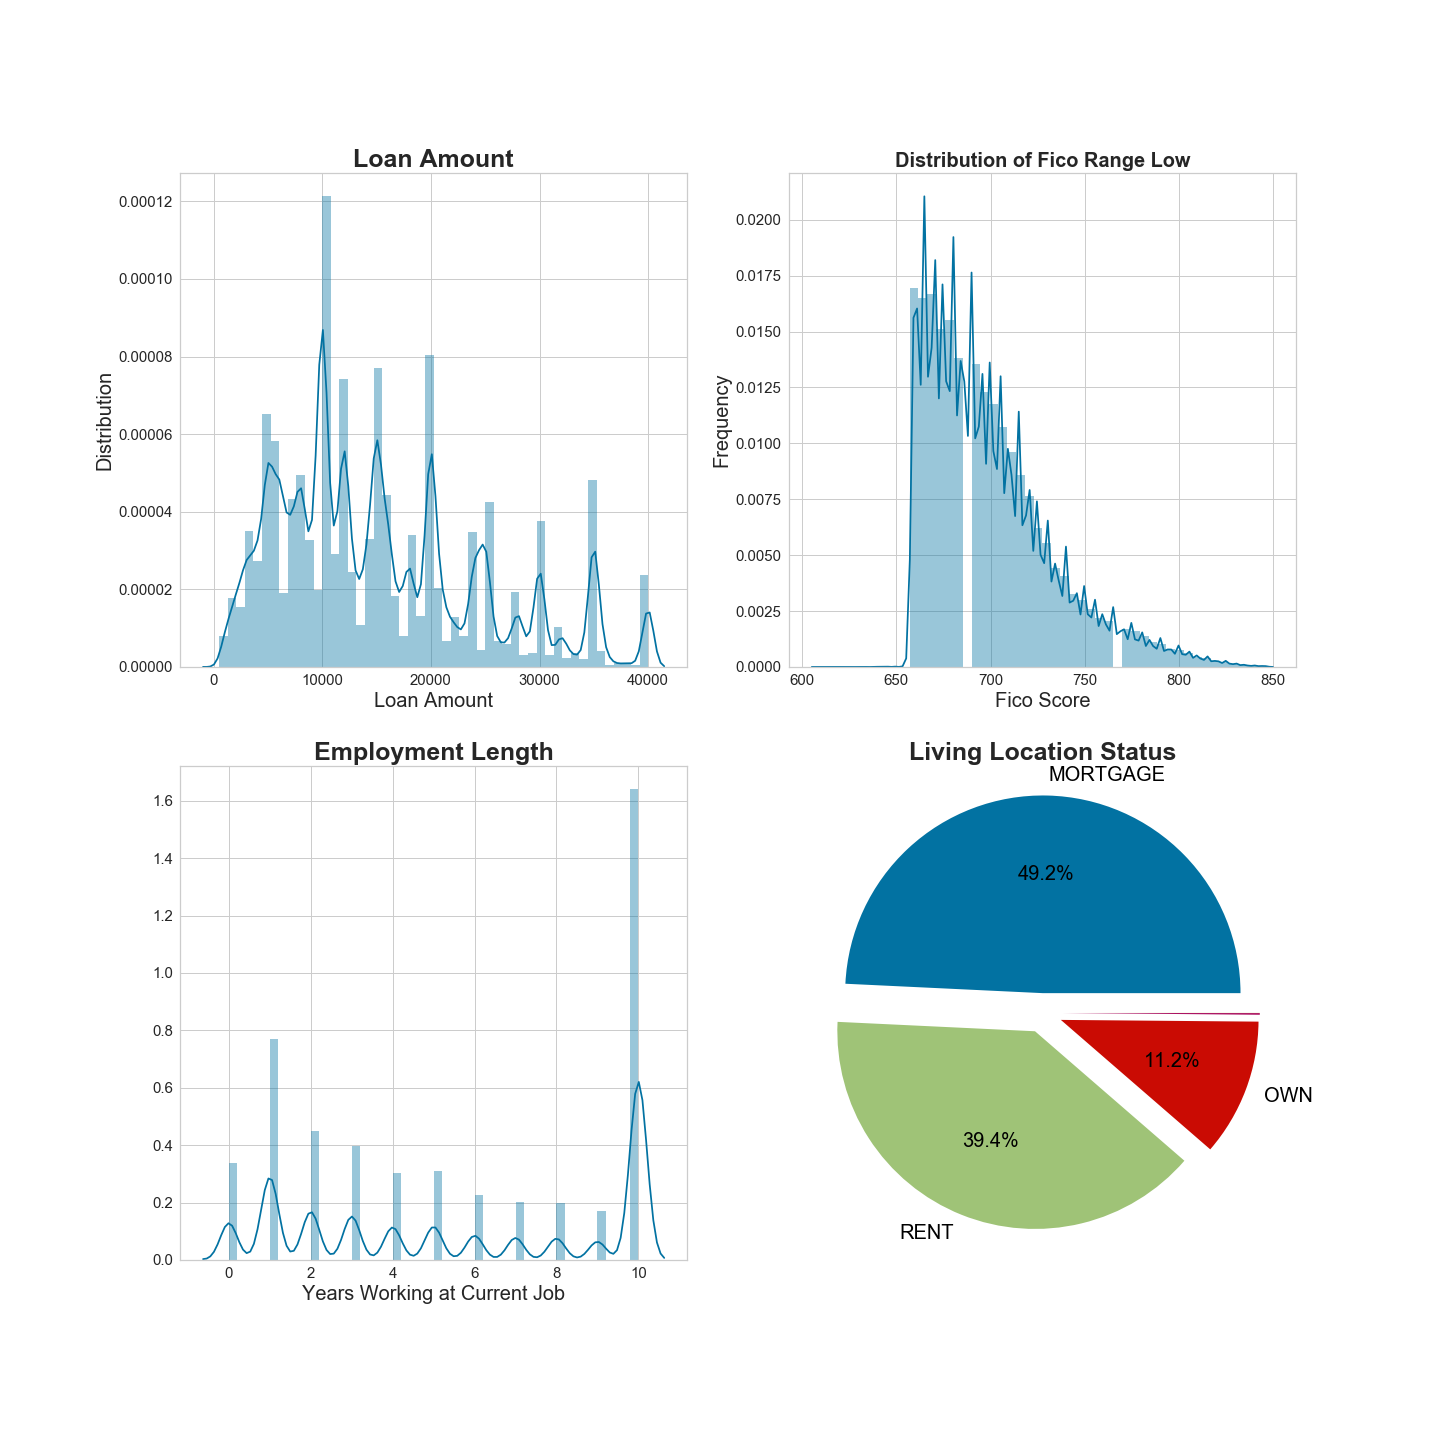
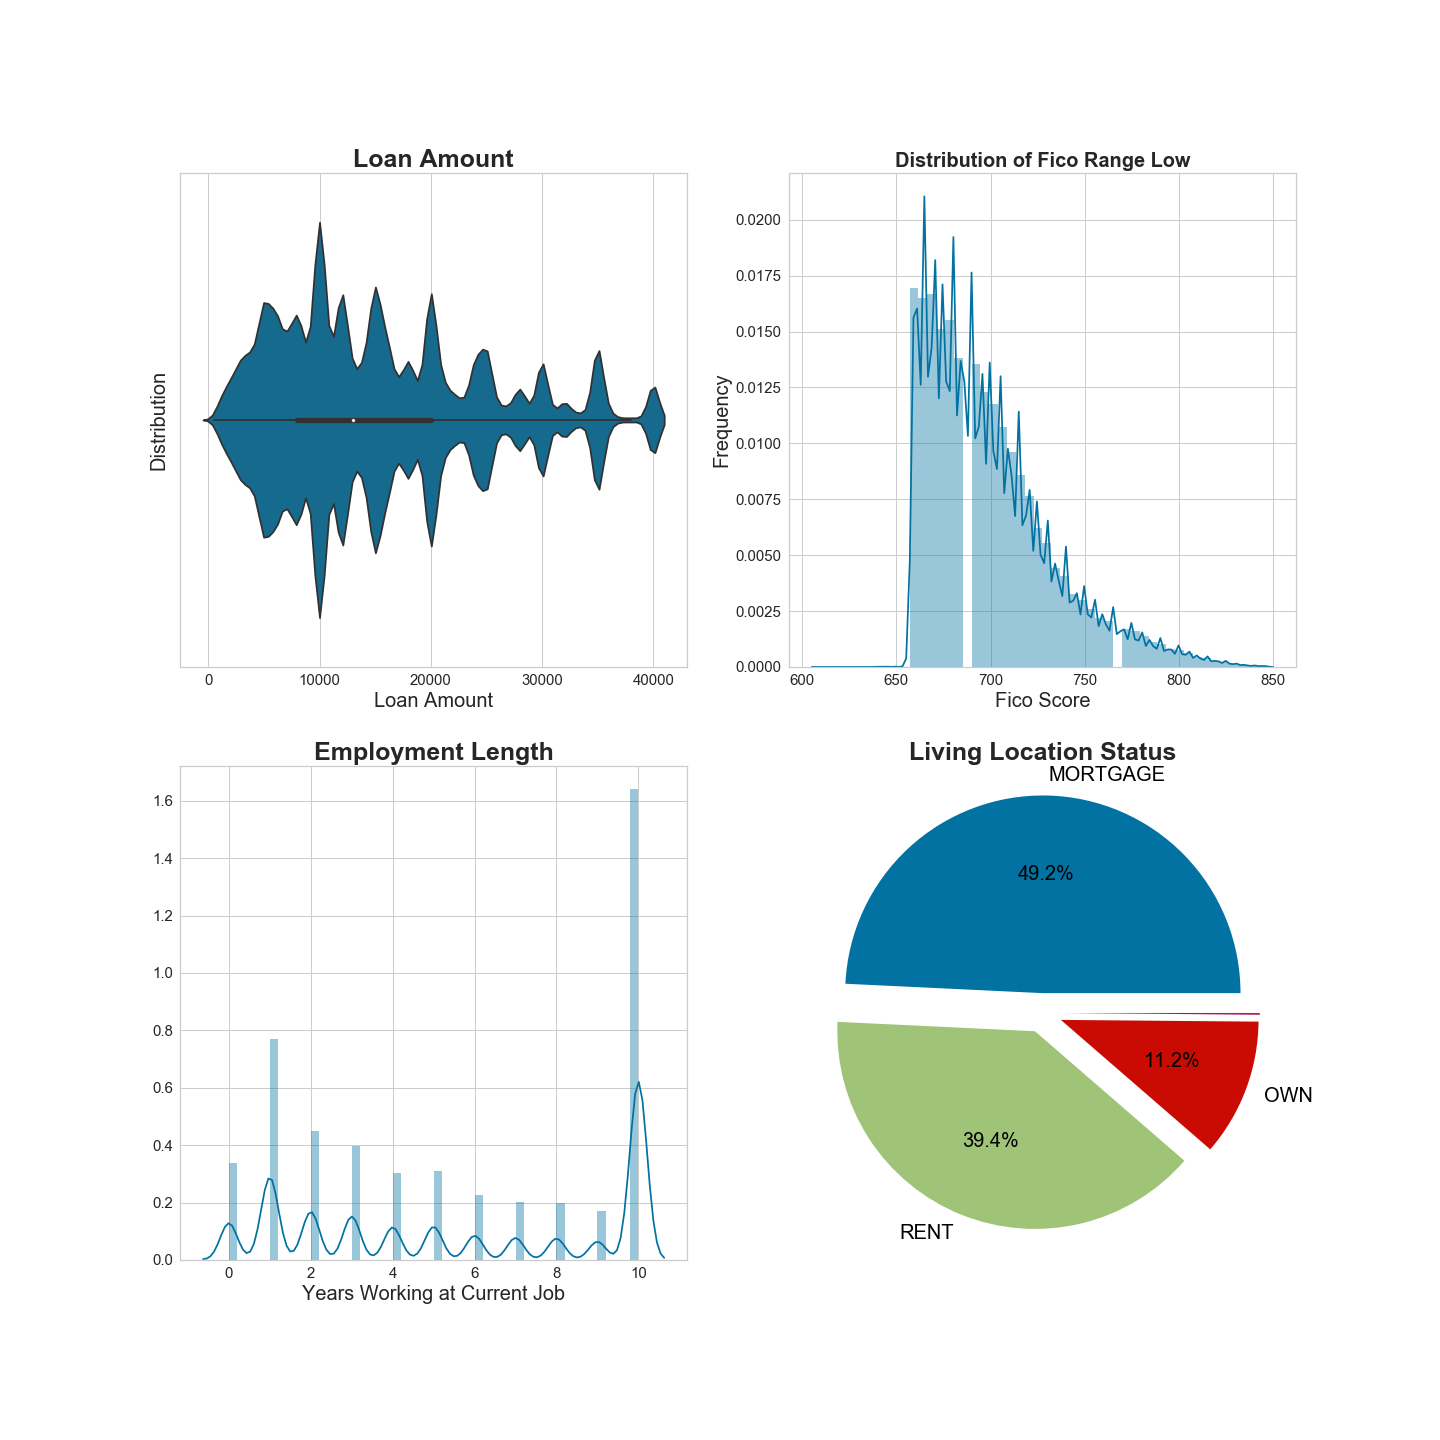
editing images

diff --git a/src/LC_Plotter.py b/src/LC_Plotter.py
@@ -112,9 +112,9 @@ def choro_debt_state(df):
     layout = dict(geo={'scope':'usa'})
 
     choromap = go.Figure(data=[data],layout=layout)
-    choromap.update_layout(title_text='Lending Club Loan Originations',geo_scope='usa')
-    plotly.offline.plot(choromap, filename = 'state_choro_loan_total.html', auto_open=False)
-    iplot(choromap,validate=False, filename='state_choro',image='png')
+    choromap.update_layout(title_text='Lending Club Loan Originations Per State',geo_scope='usa')
+    plotly.offline.plot(choromap, filename = './images/state_choro_loan_total.png', auto_open=False)
+    iplot(choromap,validate=False, filename='./images/state_choro',image='png')
 
 def choro_debt_state_count(df):
     """
@@ -147,9 +147,9 @@ def choro_debt_state_count(df):
     layout = dict(geo={'scope':'usa'})
 
     choromap = go.Figure(data=[data],layout=layout)
-    choromap.update_layout(title_text='Lending Club Loan Originations',geo_scope='usa')
-    plotly.offline.plot(choromap, filename = 'state_choro_loan_total.html', auto_open=False)
-    iplot(choromap,validate=False, filename='state_choro',image='png')
+    choromap.update_layout(title_text='Lending Club Loan Count Per State',geo_scope='usa')
+    plotly.offline.plot(choromap, filename = './images/state_choro_loan_count_total.png', auto_open=False)
+    iplot(choromap,validate=False, filename='./images/state_choro',image='png')
 
 def lc_time_series(df1):
     """
@@ -214,7 +214,7 @@ def lc_individual_profile(df_original):
     df['loan_outcome'] = df['loan_status'].apply(lambda x: 1 if (x=='Current') or (x=='Fully Paid') else 0)
     fig = plt.figure(figsize=(20,20))
     ax1 = fig.add_subplot(2,2,1)
-    ax1 = sns.distplot(df['loan_amnt'])
+    ax1 = sns.violinplot(df['loan_amnt'])
     plt.xlabel('Loan Amount',fontsize=20)
     plt.ylabel('Distribution',fontsize=20)
     plt.title('Loan Amount',fontsize=25,fontweight='bold')
